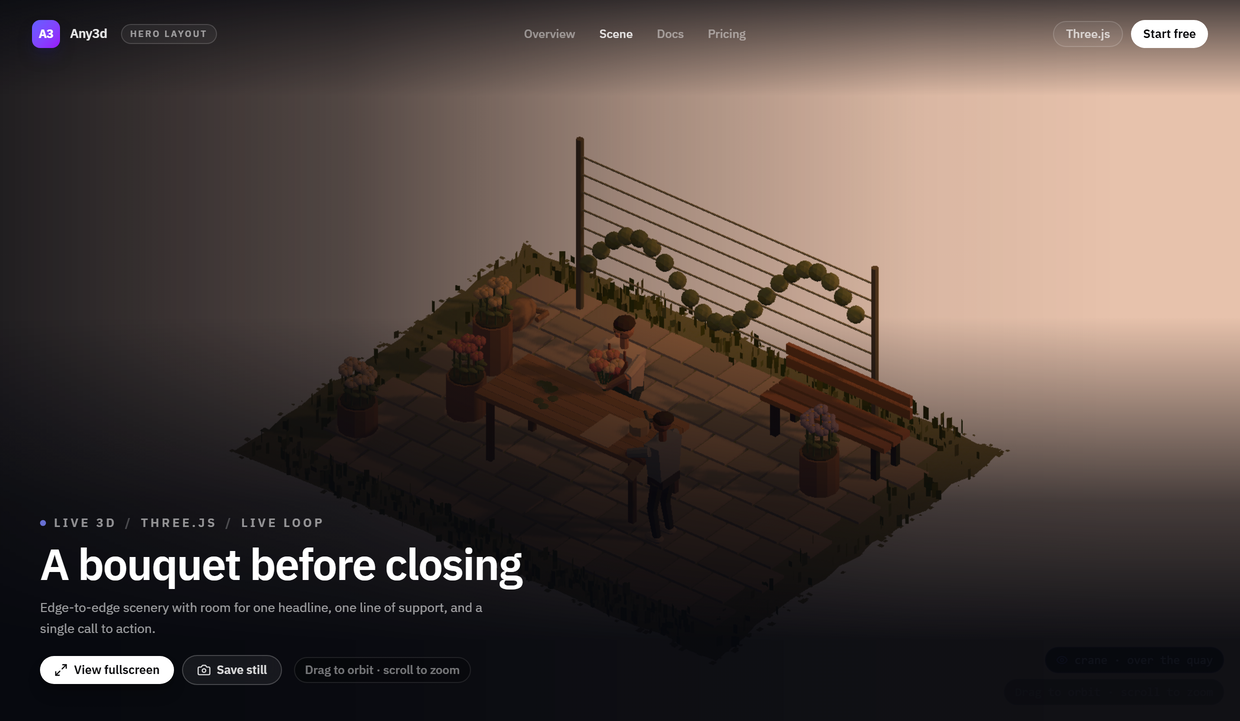
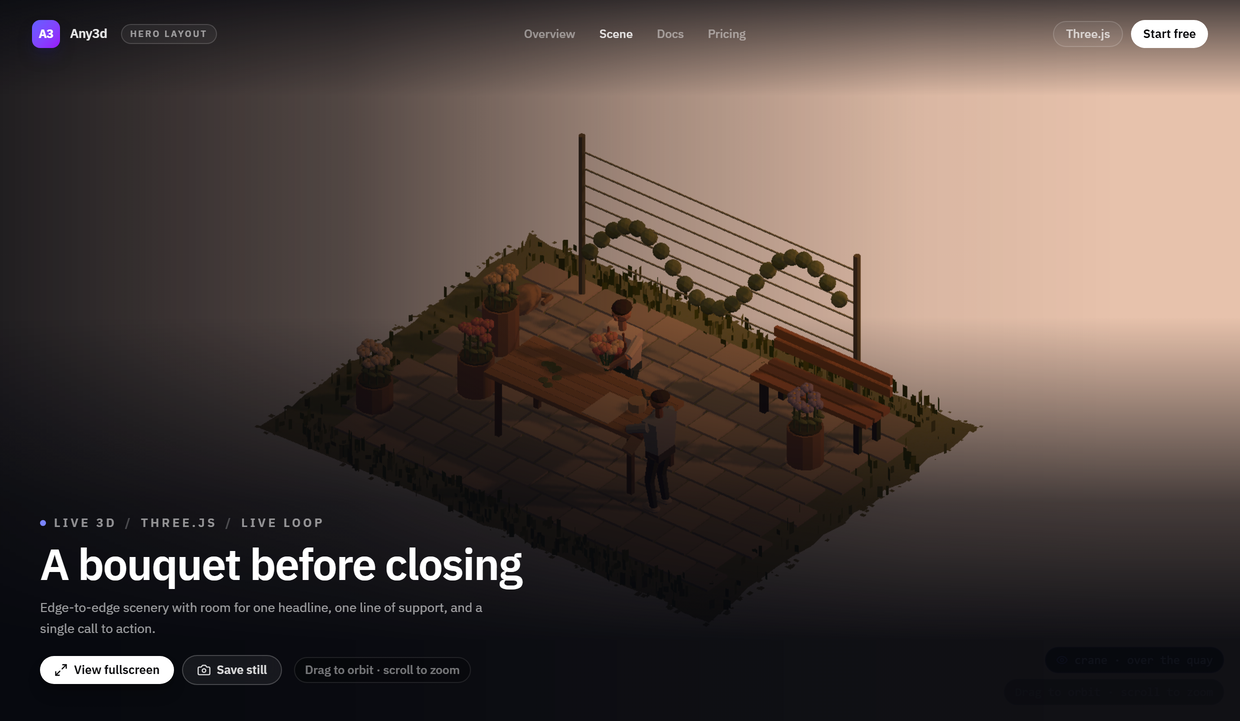
Frame worlds from what they build, not only what they declare
A world is framed from its `bounds` box, and those declarations had drifted from
the geometry. The humanoid composer declared ±3.5 x −0.6..3.6 around a slab that
reaches ±3.3 x 2.8, so a character stood small in its own banner; the abstract
gimbal declared nearly twice its real size and filled a fifth of the frame; five
other composers built past their box (city reached y 10.1 above a declared 9),
which the camera answered by cropping.

- the runtime now frames the union of the declared motion envelope and the
  geometry actually built: a declaration can add air, never cut a scene off
- humanoid and abstract boxes are measured, not guessed
- `npm run verify:bounds` mounts twelve procedural worlds, records each
  silhouette in scripts/world-bounds-baseline.json and fails on a scene that
  shrank or touches the frame edge. Mutation-tested both ways: the old humanoid
  box reads 49%/47% against the recorded 58%/55%; a 0.62x framing multiplier
  trips the clipping check.
- verify:dusk's hot-cell floor drops to 0.2%: re-framing moved the "how much
  changed" figure around, and the mean already carries the check (an unapplied
  look is mean 0.0, still caught).

All twelve stills and the six dusk stills were re-shot. fidelity 9/9, dusk 7/7,
bounds 25/25, showcase 31/31, reload 5/5, storyboard 20/20, camera 11/11,
npm test green, build clean.

diff --git a/core/kernels/any3d-world.js b/core/kernels/any3d-world.js
@@ -428,8 +428,13 @@ export function mountWorld(def, { el, finish = 'miniature', size = 'card', pause
     camera.updateMatrixWorld();
   }
   applyCam();
-  // Fit all declared motion bounds, not merely whatever pose happened to build.
-  const bounds = def.bounds ? new THREE.Box3(new THREE.Vector3(...def.bounds[0]), new THREE.Vector3(...def.bounds[1])) : new THREE.Box3().setFromObject(content);
+  // Fit the declared motion bounds plus whatever pose actually built. Declared
+  // bounds describe where the motion goes; when the geometry reaches past them
+  // (a crane boom, a rocket, the roof of a pavilion) framing from the declaration
+  // alone cut the top of the scene off. The union keeps the motion envelope and
+  // can never clip.
+  const declared = def.bounds ? new THREE.Box3(new THREE.Vector3(...def.bounds[0]), new THREE.Vector3(...def.bounds[1])) : null;
+  const bounds = declared ? declared.union(new THREE.Box3().setFromObject(content)) : new THREE.Box3().setFromObject(content);
   const corners = []; for (const x of [bounds.min.x, bounds.max.x]) for (const y of [bounds.min.y, bounds.max.y]) for (const z of [bounds.min.z, bounds.max.z]) corners.push(new THREE.Vector3(x, y, z).applyMatrix4(camera.matrixWorldInverse));
   const minX = Math.min(...corners.map(v => v.x)), maxX = Math.max(...corners.map(v => v.x));
   const minY = Math.min(...corners.map(v => v.y)), maxY = Math.max(...corners.map(v => v.y));

diff --git a/server/engine/procedural.js b/server/engine/procedural.js
@@ -1953,7 +1953,9 @@ export default defineWorld({
   duration: 6.0,
   still: 1.5,
   description: '${cleanMeans}',
-  bounds: [[-3.2, -0.6, -3.2], [3.2, 3.5, 3.2]],
+  // Measured: the gimbal reaches ±1.78 x ±1.59 and y 2.95. The old box was nearly
+  // twice that, which left the sculpture filling a fifth of the frame.
+  bounds: [[-1.9, -0.1, -1.75], [1.9, 3.05, 1.75]],
   build(W) {
     const { ball, cylinder, group } = W;
 
@@ -2342,7 +2344,10 @@ export default defineWorld({
   duration: 4.0,
   still: 1.0,
   description: '${cleanMeans}',
-  bounds: [[-3.5, -0.6, -3.5], [3.5, 3.6, 3.5]],
+  // Measured, not guessed: the slab spans ±3.2 x ±2.4 and the tallest variant (the
+  // pavilion roof) reaches y 2.8. The old [-3.5..3.5] x [-0.6..3.6] box framed a
+  // volume twice the content, so a character sat small in its own frame.
+  bounds: [[-3.4, -0.55, -2.7], [3.4, 2.9, 2.7]],
   build(W) {
     const { box, ball, cylinder, line, group } = W;
 

diff --git a/README.md b/README.md
@@ -358,6 +358,7 @@ The two prompt-only worlds per presentation were sent through the same `POST /ap
 | The camera pick was studio-only: the menu moved the live stage, but the exported file reopened at the angle the scene was authored for, and a share link forgot it entirely. | The pick is lifted to the app (`CameraPick` in `src/lib/camera.ts`), rides `POST /api/bundle` into the file (`window.__any3dCamera` for SVG, `initialCamera` for worlds) and into `ScenePayload.camera`, and a pick that cannot be applied is dropped instead of reaching `setCamera`. Guarded by `scripts/verify-export-camera.mjs` (11 checks) and three payload round-trip assertions. |
 | A project opened cold — a refresh, a bookmark, a link on another machine — restored the transcript and the code but not the frame, because the bundled html lives in memory only. The regression was only guarded from inside the storyboard suite, so a change to the deep-link effect could have broken the plain reload unnoticed. | `scripts/verify-reload.mjs` (5 checks, wired into CI) loads a preset, reloads the project URL and asserts a live frame with the scene drawn in it, no empty-state copy, and enabled capture actions. Mutation-tested: restoring `if (false && !currentBundledHtml …)` produces 0 iframes and the empty-state text. |
 | The home page's "Curated Inspirations" were six written prompts with nothing to look at — a scene generator whose landing page showed no scenes — and clicking a card did nothing at all, because the preview frame inside it swallowed the click. | The grid shows six real presets, each bundling and running on the card, loaded only when scrolled into view. The frames are `pointer-events-none` by default so the card gets the click (`interactive` opts back in), the arrow rode onto the picture to give the title its width, and every card carries the same single meta line so the rows keep one height. `verify:showcase` asserts the six cards draw scenes, share one height, fit their titles, and that one opens a project. |
+| A world is framed from the `bounds` box it *declares*, not from the geometry it builds — and those declarations had drifted. The humanoid composer framed `±3.5 × −0.6…3.6` around a slab that only reaches `±3.3 × 2.8`, so a character stood small in the middle of its own banner; the abstract gimbal declared nearly twice its real size and filled a fifth of the frame; five other composers built past their own box (`city` reached y 10.1 above a declared 9), which the camera answered by cropping. | The humanoid box is measured (`±3.4 × −0.55…2.9`), the gimbal box is measured (`±1.9 × 3.05`), and the runtime now frames the **union** of the declared motion envelope and the geometry actually built, so a declaration can add air but can never cut the top off a scene. `npm run verify:bounds` mounts twelve procedural worlds, measures each silhouette against a committed baseline and fails on a scene that shrank or touches the frame edge (mutation-tested both ways: the old humanoid box reads 49%/47% vs the recorded 58%/55%; a 0.62× framing multiplier trips the clipping check). All twelve stills were re-shot; fidelity is back to 9/9. |
 | Every bundle path except export and share was built without the look and the camera, so a scene's first frame was painted at noon from its authored angle and only corrected when the runtime reported ready. On this machine that flash is visible, and it meant two code paths disagreed about what "the scene the user set up" means. | All ten `bundleCode` calls now carry `stageLook` and `stageCamera`, the same pair the export and the share link already used. The showcase shoots the dusk set through the real look control (`A3D_LOOK=dusk`), and `npm run verify:dusk` compares each dusk still against its noon twin so a look that stops reaching the picture fails the build. |
 | The preset gallery — the screen where you browse forty scenes — listed names, file paths and line counts and showed no scenes at all. | It is a split view now: compact rows on the left, the chosen preset bundled and running in a live frame on the right, with the bundle cached per preset and the pointer driving the preview. `verify:showcase` asserts the frame draws the scene (776 SVG shapes), and that hovering a Three.js preset swaps in a canvas. |
 | Two controls were doing one job in the editor: the engine was selectable in the app bar *and* again under the composer, and the card presentation repeated the look and the play state it already had in its own strip. | The composer's engine switcher is gone (the app bar owns the format), and in Card the toolbar drops `LookScrubber` and the play/pause chip. `verify:showcase` counts them in the card presentation and fails if either comes back (mutation-tested). |
@@ -376,7 +377,7 @@ CI keeps this honest:
 
 | Workflow | What it does |
 |---|---|
-| `.github/workflows/ci.yml` | `npm test`, `tsc --noEmit`, `npm run build`, then boots the API and app and runs `npm run verify:showcase` — 31 presentation invariants (the home grid runs six real scenes and one of them opens, the frame survives Hero ↔ Card, the gallery previews the scene it lists and marks the row it shows, the card stage carries no demo band and does not repeat the toolbar's look or play controls, no duplicate export, the stage toolbar exports a standalone file, the card fits a short stage, light mode has no black surfaces, pixel art fills its frame, console clean) — plus the contract walks for each kernel (`verify:pixel-finish`, `verify:svg-api`, `verify:pixel-api`, `verify:worlds-api`), `npm run verify:camera` for the camera an export carries, `npm run verify:storyboard` for the storyboard framing on the project page, `npm run verify:reload` for a project opened cold (the bundle is memory-only, so a refresh has to rebuild it), `npm run verify:fidelity` to re-shoot the README stills, and `npm run verify:dusk` to prove the dusk stills below are actually lit dusk rather than a noon picture filed under a new name. |
+| `.github/workflows/ci.yml` | `npm test`, `tsc --noEmit`, `npm run build`, then boots the API and app and runs `npm run verify:showcase` — 31 presentation invariants (the home grid runs six real scenes and one of them opens, the frame survives Hero ↔ Card, the gallery previews the scene it lists and marks the row it shows, the card stage carries no demo band and does not repeat the toolbar's look or play controls, no duplicate export, the stage toolbar exports a standalone file, the card fits a short stage, light mode has no black surfaces, pixel art fills its frame, console clean) — plus the contract walks for each kernel (`verify:pixel-finish`, `verify:svg-api`, `verify:pixel-api`, `verify:worlds-api`), `npm run verify:camera` for the camera an export carries, `npm run verify:storyboard` for the storyboard framing on the project page, `npm run verify:reload` for a project opened cold (the bundle is memory-only, so a refresh has to rebuild it), `npm run verify:fidelity` to re-shoot the README stills, `npm run verify:bounds` to mount every procedural world and check it fills its frame without being clipped (against a recorded baseline, so a scene cannot quietly shrink), and `npm run verify:dusk` to prove the dusk stills below are actually lit dusk rather than a noon picture filed under a new name. |
 | `.github/workflows/showcase.yml` | Weekly / on demand: re-captures all twelve scenes with `showcase:gifs`, uploads them as an artifact, and commits the refreshed images only when `commit_images` is set. |
 
 ---
